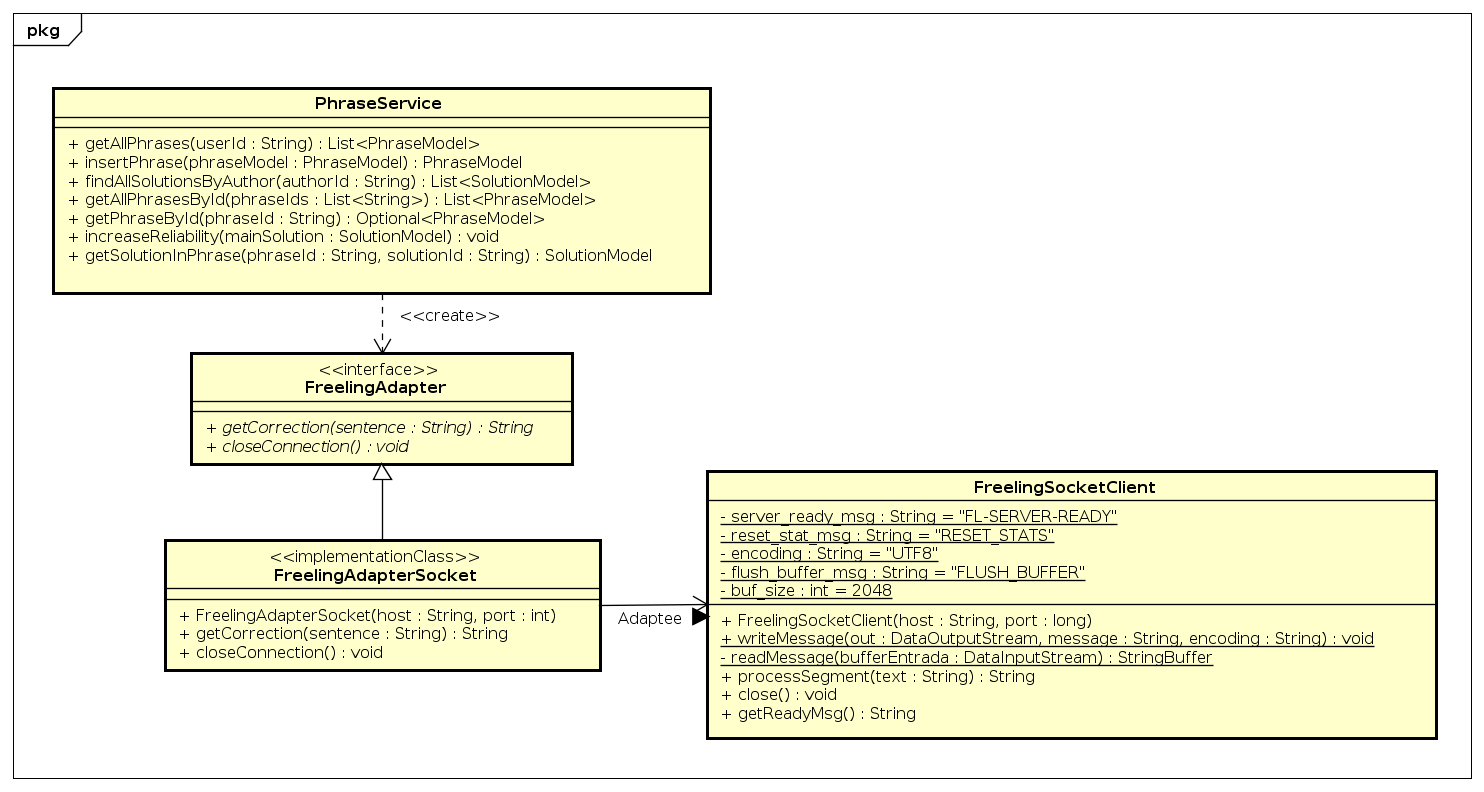
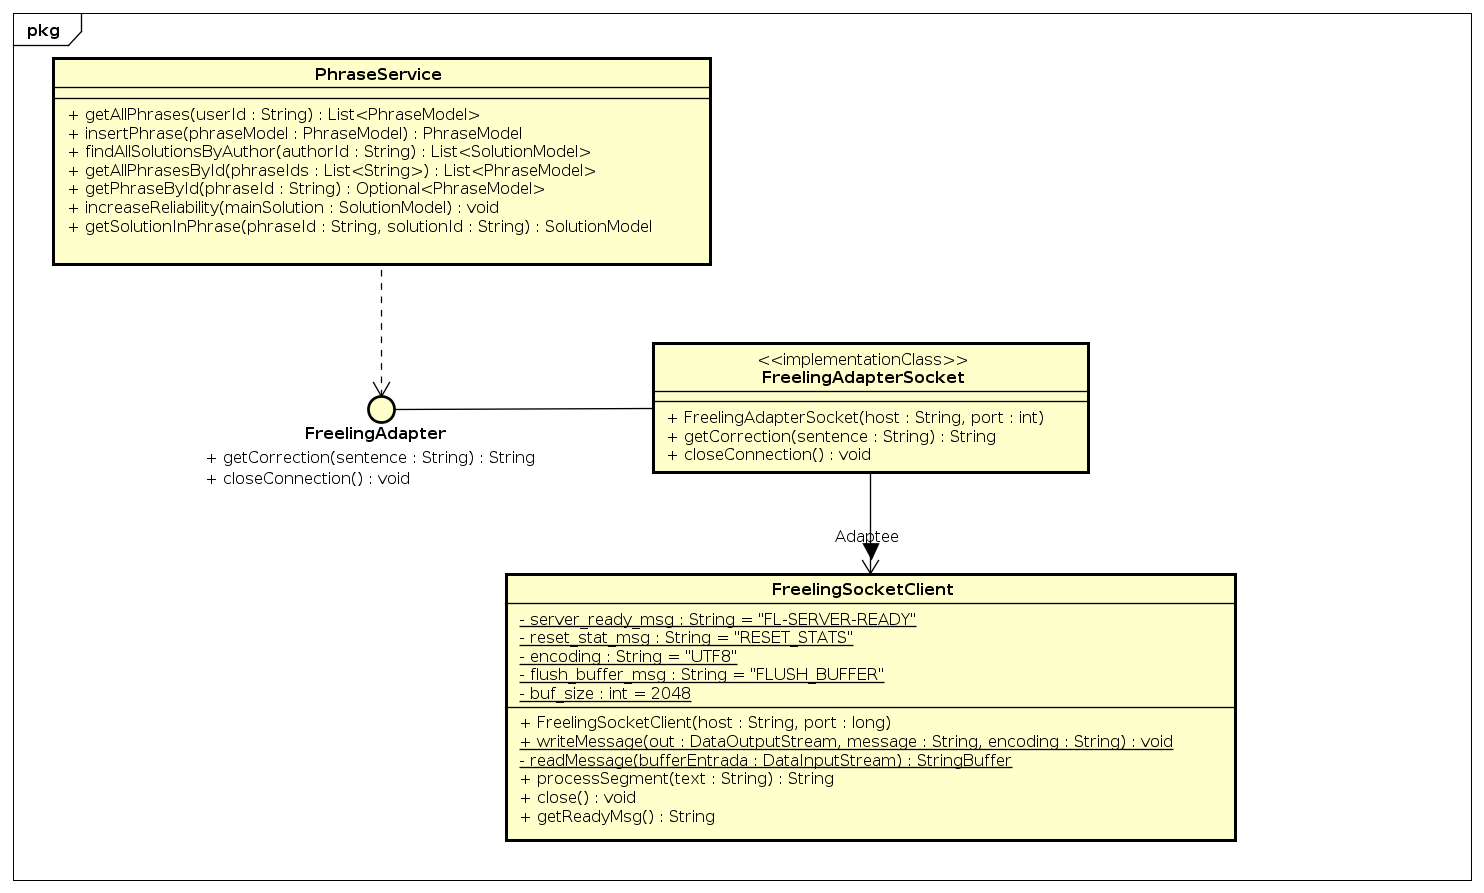
Sistemato allegato tecnico

diff --git a/RQ/Allegato_Tecnico/sez/Architettura_del_prodotto.tex b/RQ/Allegato_Tecnico/sez/Architettura_del_prodotto.tex
@@ -15,17 +15,19 @@
 
 \subsection{Design pattern utilizzati}
 \subsubsection{Backend}
-\paragraph{Adapter}
+\paragraph{Adapter}\mbox{}\\
+
 L'utilizzo della libreria di Freeling, per il pos-tagging, ha richiesto la creazione di un Adapter nella variante Object Adapter per poter adattare le funzionalità strettamente necessarie.
 \begin{figure}[H]
 \includegraphics[width=17cm]{img/Adapter.png} 
 \caption{Diagramma delle classi Adapter}
 \end{figure}
 La classe FreelingSocketClient viene fornita dai creatori della libreria e si occupa di realizzare la connessione con il server Freeling scritto in C++.
-\paragraph{Controller - Service - Repository - Model}
+\paragraph{Controller - Service - Repository - Model}\mbox{}\\
+
 L'architettura realizzata all'interno di Spring Web consta nella presenza di:
 \begin{itemize}
-\item \textbf{Controller}: un a cui è delegato il compito di gestire le richieste provenienti dalla parte frontend e alla cattura delle eccezioni;
+\item \textbf{Controller}: a cui viene delegato il compito di gestire le richieste provenienti dalla parte frontend e la cattura delle eccezioni;
 \item \textbf{Service}: realizzano la business-logic;
 \item \textbf{Repository}: realizzano il layer di persistenza gestendo la base di dati;
 \item \textbf{Model}: rappresentano oggetti  Plain Old Java Object, un'istanza di un model rappresenta un documento di una collezione.

diff --git a/RQ/Allegato_Tecnico/sez/RegistroModifiche.tex b/RQ/Allegato_Tecnico/sez/RegistroModifiche.tex
@@ -13,45 +13,45 @@
 		Damien Ciagola &
 		\RdP{}  \\	
 				
-		0.7.0 & 
+		0.4.1 & 
 		2019-04-05 &  
 		Verifica del documento &	
 		Enrico Muraro &
 		\ver{}  \\			
 		
-		0.6.1 & 
+		0.4.1 & 
 		2019-04-04 &  
 		Sistemati UML  &	
 		Francesco Corti&
 		\reda{}  \\			
 		
-		0.6.0 & 
+		0.4.0 & 
 		2019-04-04 &  
 		Aggiunti diagrammi view &	
 		Gionata Legrottaglie&
 		\reda{}  \\			
 		
-		0.5.0 & 
+		0.3.0 & 
 		2019-04-03 &  
 		Stesura sezione §4 &	
 		Gionata Legrottaglie&
 		\reda{}  \\			
 		
-		0.4.0 & 
+		0.2.2 & 
 		2019-04-03 &  
-		Stesura sezione §3 &	
+		Modifica sezione §3 &	
 		Francesco Magarotto &
 		\reda{}  \\			
 		
-		0.3.0 & 
+		0.2.1 & 
 		2019-04-02 &  
-		Stesura sezione §4 &	
+		Modifica sezione §3 &	
 		Damien Ciagola &
 		\reda{}  \\		
 		
 		0.2.0 & 
 		2019-04-02 &  
-		Stesura sezione §5 &	
+		Stesura sezione §3 &	
 		Francesco Magarotto &
 		\reda{}  \\	
 		

diff --git a/RQ/Allegato_Tecnico/sez/Diagrammi_dei_package.tex b/RQ/Allegato_Tecnico/sez/Diagrammi_dei_package.tex
@@ -1,3 +1,4 @@
+\newpage
 \subsubsection{Model}
 Viene di seguito riportato il diagramma delle classi del package model.
 \begin{figure}[H]
@@ -14,6 +15,7 @@ Viene di seguito riportato il diagramma delle classi di package controller e ser
 \includegraphics[width=17cm, keepaspectratio]{img/Controller-service.png} 
 \caption{Controller e Service}
 \end{figure}
+
 \subsubsection{View}
 Viene di seguito riportato il diagramma delle classi di package della view.
 \begin{figure}[H]

diff --git a/RQ/Allegato_Tecnico/sez/Diagrammi_di_sequenza.tex b/RQ/Allegato_Tecnico/sez/Diagrammi_di_sequenza.tex
@@ -1,5 +1,5 @@
 \subsubsection{Inserimento di un esercizio}
-Il diagramma di sequenza rappresenta l'azione di inserimento di un esercizio nel sistema
+Il diagramma di sequenza rappresenta l'azione di inserimento di un esercizio nel sistema.
 \begin{figure}[H]
 \centering
 \includegraphics[width=17cm, keepaspectratio]{img/Exercise-insert.png} 

diff --git a/RQ/Allegato_Tecnico/sez/Installazione_ed_esecuzione.tex b/RQ/Allegato_Tecnico/sez/Installazione_ed_esecuzione.tex
@@ -1,6 +1,6 @@
 Il codice relativo alla Product Baseline lo si può trovare al seguente link:
 \begin{center}
-\href{https://github.com/SWEightgroup/Development}{linkAllaRepo}. 
+\href{https://github.com/SWEightgroup/Development}{Colletta}. 
 \end{center}
 
 \subsection{Maven project}

diff --git a/RQ/Allegato_Tecnico/AllegatoTecnico.tex b/RQ/Allegato_Tecnico/AllegatoTecnico.tex
@@ -28,6 +28,7 @@
 \newpage
 \section{Architettura}
 \input{sez/Architettura_del_prodotto.tex}
+\newpage
 \section{Casi d'uso}
 \input{sez/casi_duso.tex}
 \end{document}
